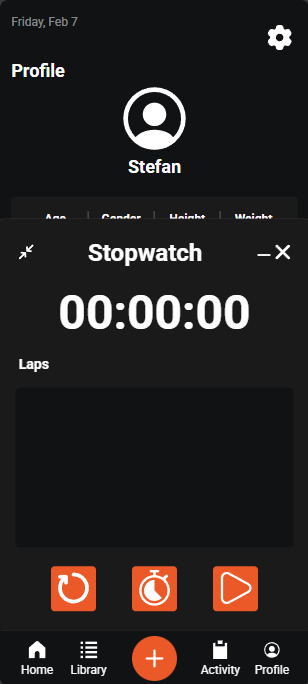
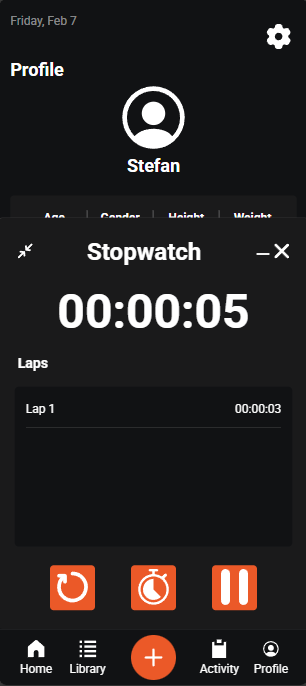
Replaced the first image for stopwatch and fixed the wrong file name for the second image of stopwatch

diff --git a/src/projects/components.js b/src/projects/components.js
@@ -34,7 +34,7 @@ export const fitnessAppComponents = [
         description: 'Similar to workouts, you can create, view, edit, and delete custom or default exercises. You can add them to existing workouts, or complete just that exercise.'
     },
 
-    { name: "Stopwatch", param: "stopwatch", imgs:[{caption: '', src: '/fitness-app/stopwatch.png'}, {caption: '', src: '/fitness-app/stopwatch-minimized.png'}, {caption: '', src: '/fitness-app/stopwatch-hidden.png'}], 
+    { name: "Stopwatch", param: "stopwatch", imgs:[{caption: '', src: '/fitness-app/stopwatch.png'}, {caption: '', src: '/fitness-app/stopwatch2.png'}, {caption: '', src: '/fitness-app/stopwatch-hidden.png'}], 
         features:['Access this stopwatch everywhere in the app','Minimize it at the top of the app','Hide it by showing only the time','Save laps','Start/stop the stopwatch and reset it'],
         description: 'This is a tool that is accessible from anywhere in the app. It will initially show a stopwatch component with start/stop. lap, and reset button, a container for laps, and the time passed since the start button has been pressed. It can be minimized to a smaller stopwatch that will stick to the top of the screen, which will show a minimal version of the stopwatch with the buttons still visible, and it can be further hidden by showing only the time at the stop of the screen. On just a press on that small component, the stopwatch is maximized.'
     },
